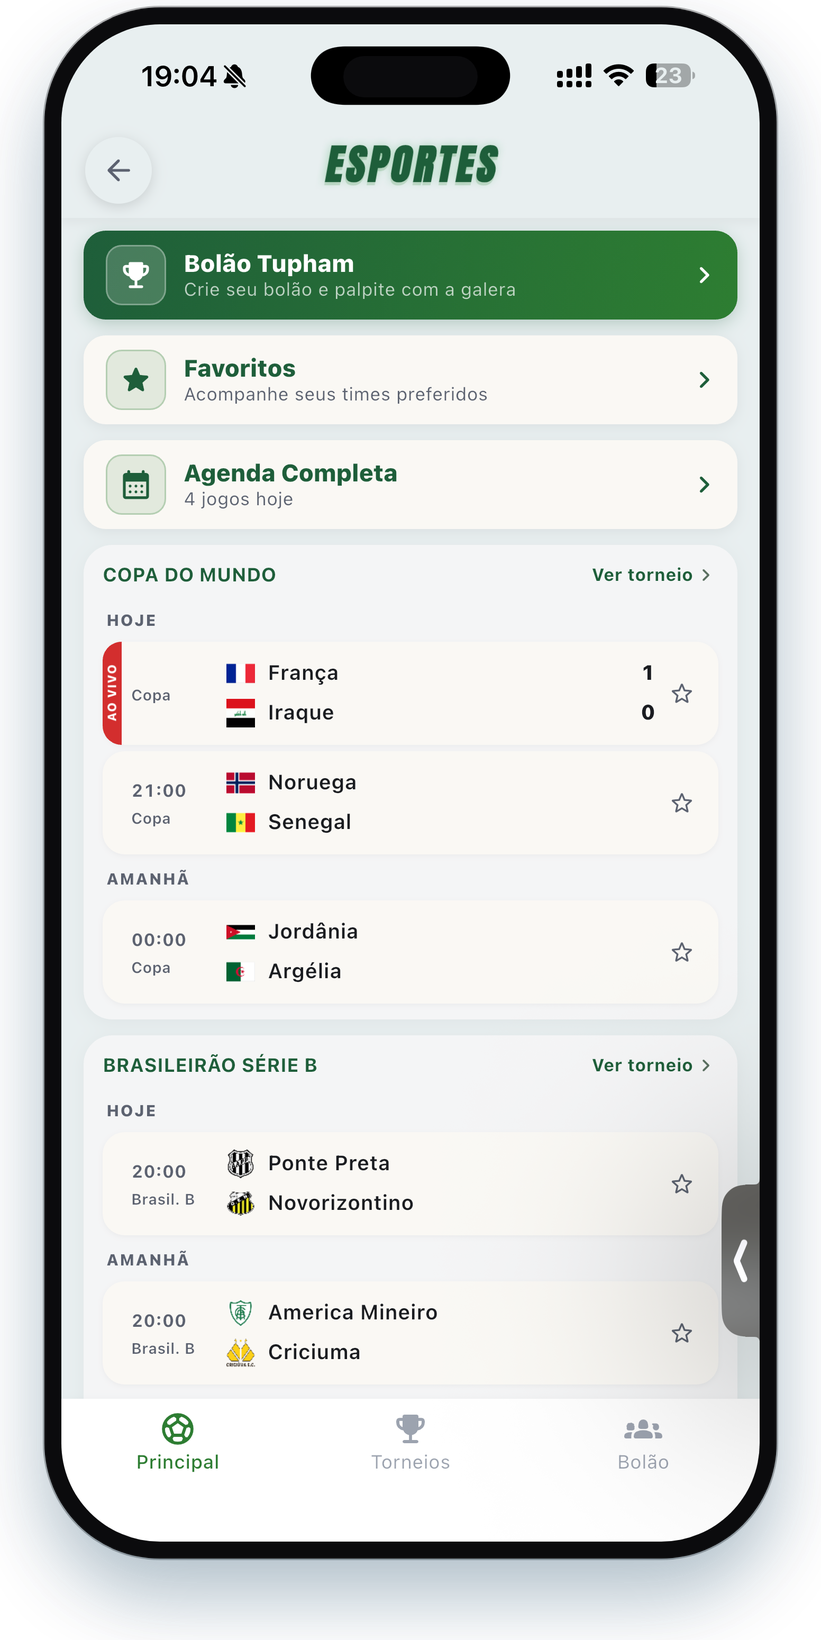
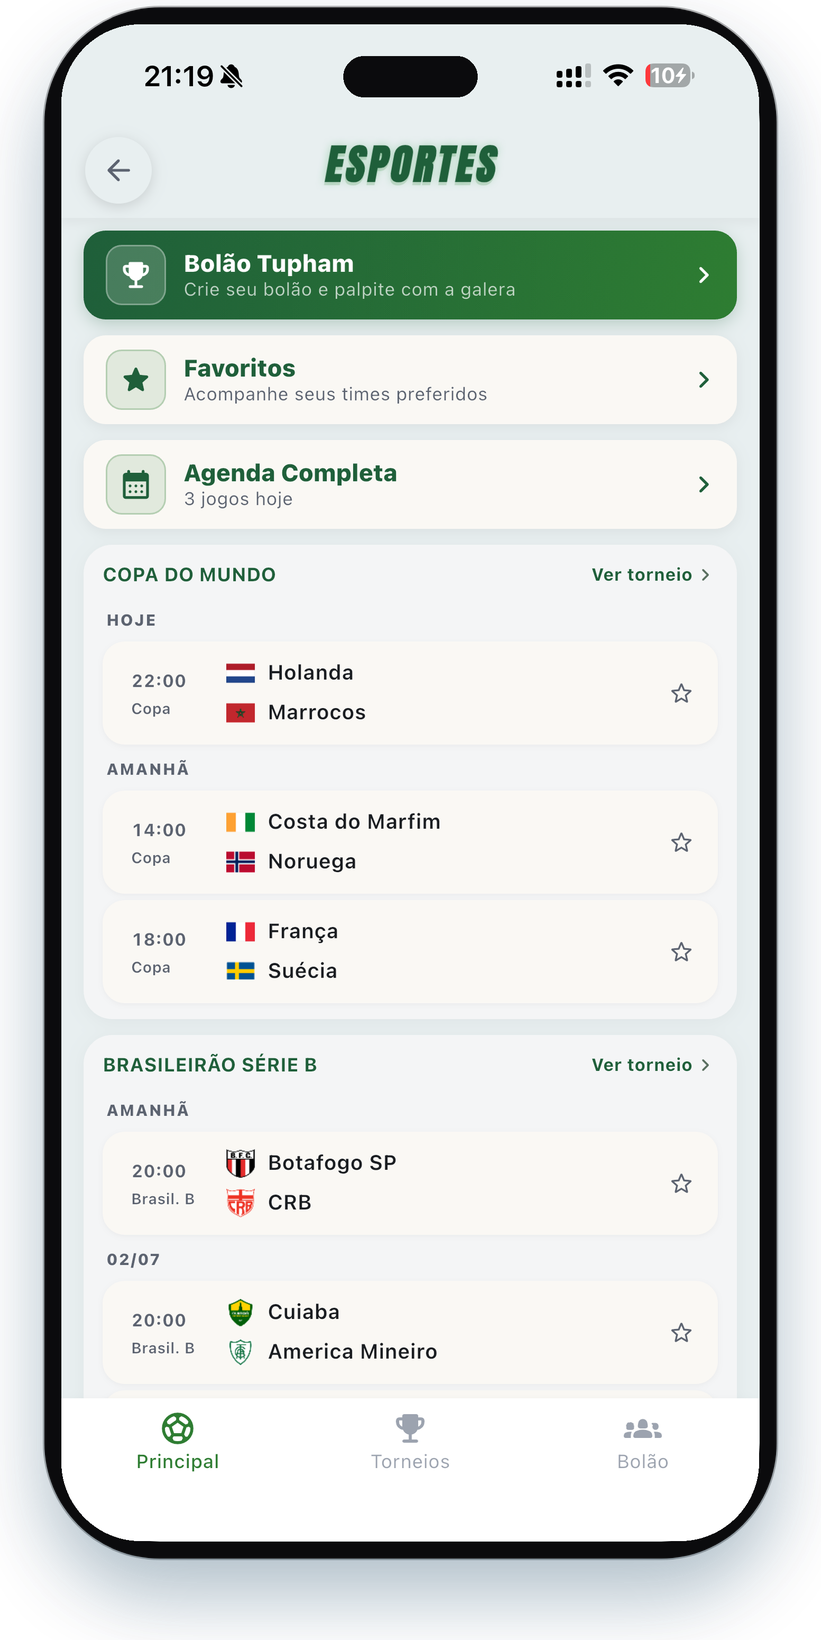
feat(site): mockups novos de Documentos e Esportes (enquadrados na moldura padrão)
- gera docs.png e esportes.png a partir dos prints crus (Drive), encaixados
  na MESMA moldura de iPhone das outras telas (screen rect 160,186 + dynamic
  island redesenhada, raio de canto 149) — saída 821x1640 igual às demais
- esportes.png sobrescrito -> atualiza automaticamente home (Esportes) e
  Habilidades (#esportes)
- Documentos (Habilidades) troca o screenshot antigo de currículo (.phone)
  pelo novo mockup docs.png; sai a última tela no frame CSS antigo

Claude-Session: https://claude.ai/code/session_0147tUbpzXY5tDZoYEZMU5eX

diff --git a/habilidades.html b/habilidades.html
@@ -129,7 +129,7 @@
   <div class="wrap split split--reverse">
     <div class="split-visual" data-reveal>
       <div class="glow glow--sky" style="width:300px;height:300px;opacity:.5"></div>
-      <div class="phone phone--tilt"><img src="assets/img/screens/09_criacao_curriculo.PNG" alt="Assistente de currículo do Tupham"></div>
+      <div class="mockup mockup--tilt"><img src="assets/img/mockups/docs.png" alt="Tela de Documentos do Tupham" loading="lazy"></div>
     </div>
     <div data-reveal>
       <span class="eyebrow"><span class="gold-ink">02</span> &nbsp;Documentos</span>